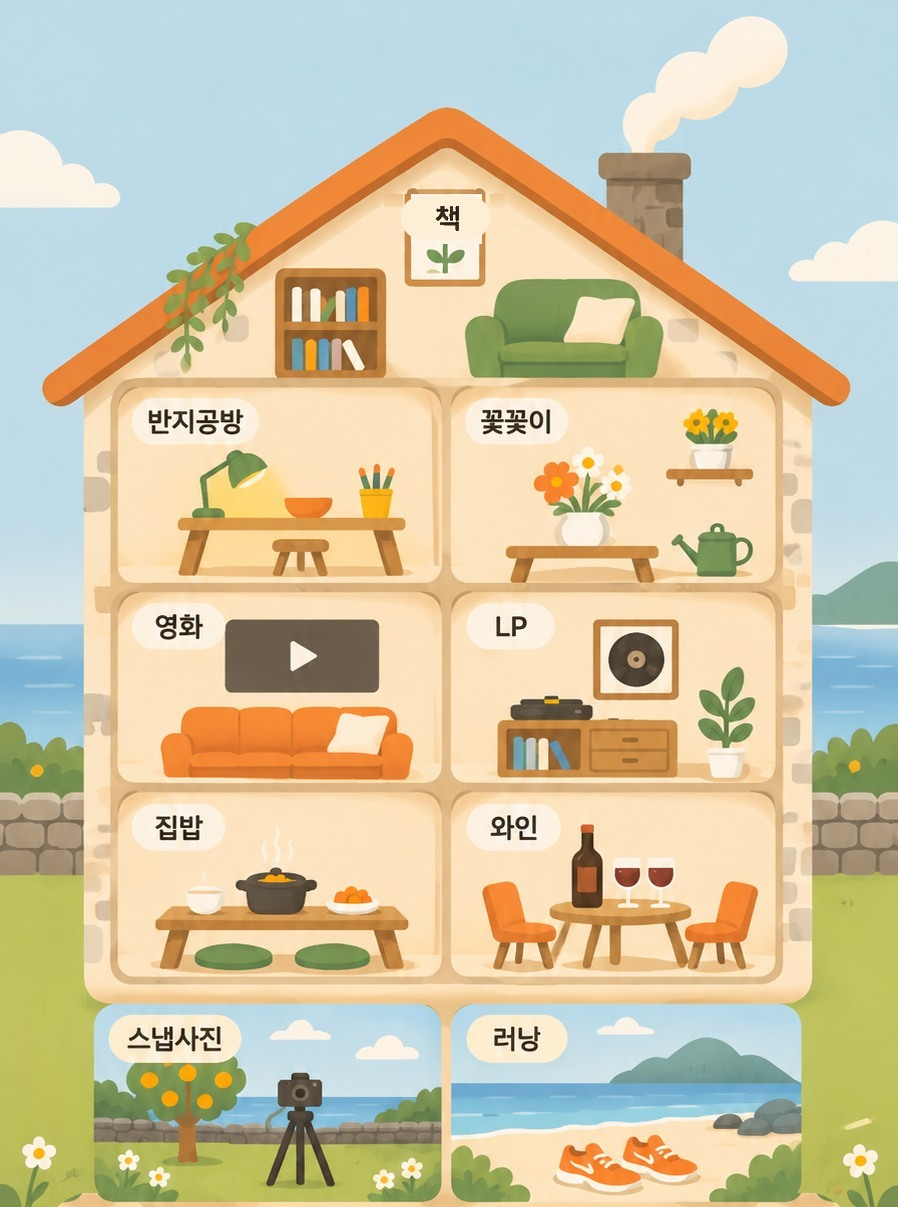
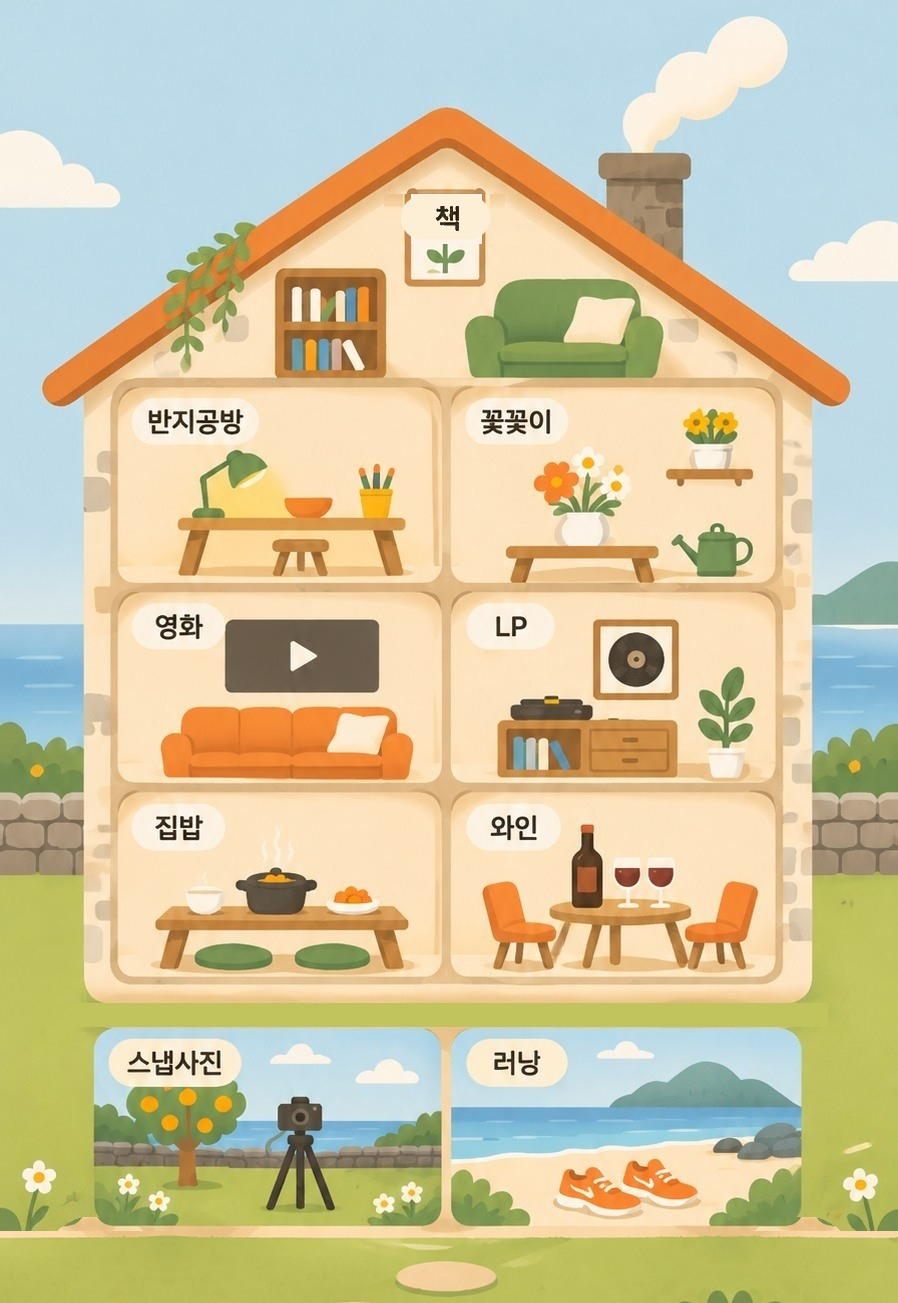
게하 탐색 — 이름표는 그림 속 크림색 이름표 그대로 두고 마우스를 올리면 주황으로 바뀌며 오른쪽으로 길어져 게스트하우스 이름 · →, 집과 마당 칸 사이 잔디로 띄우고 아래 잔디 · 디딤돌 여백 · 인트로 단어 조금만 내려도 다음 단어(단계 간격 0.6→0.3화면)

diff --git a/src/pages/HousePage.tsx b/src/pages/HousePage.tsx
@@ -26,12 +26,11 @@ const VIEW_KEY = 'jejulog:house-view';
  * 휴대폰(좁은 화면) — 세로 그림, 웹(넓은 화면) — 양옆 풍경까지 그려진 가로 그림을 화면 폭에 꽉 차게
  */
 /** pill — 그림 속 이름표 네모 [x1, y1, x2, y2] (이름이 그림 안에 있는 손그림 집 — 마우스를 올리면 그 자리에 주황 이름표) */
-type Spot = { id: ProgramId; room: [number, number, number, number]; tag: [number, number, number]; center?: boolean; pill?: [number, number, number, number]; fix?: boolean };
-/* fix — 그림 속 이름이 틀린 칸(러닝이 '러낭'으로 그려짐)은 그림 이름표 위에 같은 색 이름표를 늘 덮어 둠 */
+type Spot = { id: ProgramId; room: [number, number, number, number]; tag: [number, number, number]; center?: boolean; pill?: [number, number, number, number] };
 const HOUSES: Record<'narrow' | 'wide' | 'paper', { url: string; w: number; h: number; spots: Spot[]; labels?: boolean }> = {
-  // 지금 쓰는 그림 — 받은 집 그림(덩굴 · 돌벽 · 방 이름이 그림 안에, 마당 두 칸은 집 아래, 책 이름표는 둥근 알약으로 다듬음) 898 × 1207. 이름표는 그림에 있으니 덧씌우지 않고, 마우스를 올리면 그 자리에 주황 이름표(pill)
+  // 지금 쓰는 그림 — 받은 집 그림(덩굴 · 돌벽 · 방 이름이 그림 안에, 마당 두 칸은 집 아래, 책 이름표는 둥근 알약으로 다듬음, 집과 마당 사이 잔디로 띄움, 아래 잔디 · 디딤돌 여백) 898 × 1303. 이름표는 그림에 있으니 덧씌우지 않고, 마우스를 올리면 그 자리에 주황 이름표(pill)
   paper: {
-    url: housePaperUrl, w: 898, h: 1207, labels: false,
+    url: housePaperUrl, w: 898, h: 1303, labels: false,
     spots: [
       { id: 'book', room: [100, 150, 800, 382], tag: [450, 200, 66], center: true, pill: [400, 195, 490, 239] },
       { id: 'craft', room: [112, 385, 440, 582], tag: [0, 0, 0], pill: [132, 397, 265, 442] },
@@ -40,8 +39,8 @@ const HOUSES: Record<'narrow' | 'wide' | 'paper', { url: string; w: number; h: n
       { id: 'lp', room: [452, 590, 778, 782], tag: [0, 0, 0], pill: [465, 602, 554, 648] },
       { id: 'homemeal', room: [112, 790, 440, 980], tag: [0, 0, 0], pill: [132, 802, 225, 850] },
       { id: 'wine', room: [452, 790, 778, 980], tag: [0, 0, 0], pill: [465, 802, 561, 850] },
-      { id: 'camping', room: [95, 1005, 440, 1202], tag: [0, 0, 0], pill: [107, 1014, 239, 1062] },
-      { id: 'running', room: [455, 1005, 800, 1202], tag: [0, 0, 0], pill: [465, 1014, 567, 1062], fix: true },
+      { id: 'camping', room: [95, 1029, 440, 1226], tag: [0, 0, 0], pill: [107, 1038, 239, 1086] },
+      { id: 'running', room: [455, 1029, 800, 1226], tag: [0, 0, 0], pill: [465, 1038, 567, 1086] },
     ],
   },
   // 휴대폰 — 세로 그림 (1089 × 1445)
@@ -156,7 +155,7 @@ export function HousePage({ embedded = false }: { embedded?: boolean }) {
       >
         <div className="house3d__frame">
           <img className="house3d__img" src={house.url} width={IMG_W} height={IMG_H} alt={ui.house.houseAria} loading="lazy" decoding="async" />
-          {house.spots.map(({ id, room: [x1, y1, x2, y2], tag: [tx, ty, tw], center, pill, fix }) => {
+          {house.spots.map(({ id, room: [x1, y1, x2, y2], tag: [tx, ty, tw], center, pill }) => {
             const e = experienceById[id];
             const place = programById[id].report.place.name;
             return (
@@ -169,7 +168,7 @@ export function HousePage({ embedded = false }: { embedded?: boolean }) {
                   {...gaAttrs(id)}
                   style={{ left: pct(x1, IMG_W), top: pct(y1, IMG_H), width: pct(x2 - x1, IMG_W), height: pct(y2 - y1, IMG_H) }}
                 />
-                {/* 손그림 집 — 그림 속 이름표 자리에 주황 이름표, 방에 마우스를 올리거나 키보드로 고를 때만 보임 */}
+                {/* 그림 속 이름표 자리에 같은 크림색 이름표 — 방에 마우스를 올리면 주황으로 바뀌며 오른쪽으로 길어져 게스트하우스 이름 · → */}
                 {pill && (
                   <span
                     className="house3d__pill"
@@ -177,17 +176,10 @@ export function HousePage({ embedded = false }: { embedded?: boolean }) {
                     style={{ left: pct(pill[0], IMG_W), top: pct(pill[1], IMG_H), minWidth: pct(pill[2] - pill[0], IMG_W), height: pct(pill[3] - pill[1], IMG_H) }}
                   >
                     <span>{e.label}</span>
-                    <span className="house3d__pill-place">{place}</span>
-                    <span aria-hidden="true">→</span>
-                  </span>
-                )}
-                {pill && fix && (
-                  <span
-                    className="house3d__pill house3d__pill--fix"
-                    aria-hidden="true"
-                    style={{ left: pct(pill[0], IMG_W), top: pct(pill[1], IMG_H), width: pct(pill[2] - pill[0], IMG_W), height: pct(pill[3] - pill[1], IMG_H) }}
-                  >
-                    {e.label}
+                    <span className="house3d__pill-more">
+                      <span className="house3d__pill-place">{place}</span>
+                      <span aria-hidden="true">→</span>
+                    </span>
                   </span>
                 )}
                 {/* 이름표 — 그림 속 이름표 위에 같은 크기로 덮음 (언어 전환 · 호버 때 주황). 이름이 그림 안에 있는 손그림 집은 덮지 않음 */}

diff --git a/src/styles/house.css b/src/styles/house.css
@@ -200,14 +200,15 @@
 /* 손그림 집 이름표 — 방에 마우스를 올리면 그림 속 이름표 자리에 주황으로 */
 .house3d--paper .house3d__frame { container-type: inline-size; } /* 이름표 글씨를 그림 크기에 맞춤 (100cqw = 그림 폭) */
 .house3d__pill {
-  position: absolute; z-index: 2; display: flex; align-items: center; justify-content: center; gap: .45em; padding: 0 .7em; border-radius: 999px; white-space: nowrap; pointer-events: none;
-  background: #F0883A; color: #1F140C; font-family: var(--f-home); font-size: calc(100cqw * 25 / 898); font-weight: 800; letter-spacing: -0.02em;
-  opacity: 0; transition: opacity var(--t-hover) var(--ease);
+  position: absolute; z-index: 2; display: flex; align-items: center; justify-content: center; padding: 0 .7em; border-radius: 999px; white-space: nowrap; pointer-events: none;
+  background: #FEEFD6; color: #2A2520; font-family: var(--f-home); font-size: calc(100cqw * 25 / 898); font-weight: 800; letter-spacing: -0.02em;
+  transition: background var(--t-hover) var(--ease), color var(--t-hover) var(--ease);
 }
+/* 이름 뒤 게스트하우스 이름 · → — 평소엔 접혀 있다가 마우스를 올리면 펼쳐져 이름표가 오른쪽으로 길어짐 */
+.house3d__pill-more { display: inline-flex; align-items: center; gap: .4em; max-width: 0; margin-left: 0; overflow: hidden; opacity: 0; transition: max-width .3s var(--ease), margin-left .3s var(--ease), opacity .2s var(--ease); }
 .house3d__pill-place { font-size: .8em; font-weight: 600; color: rgba(31, 20, 12, .75); }
-.house3d__room:hover + .house3d__pill, .house3d__room:focus-visible + .house3d__pill { opacity: 1; }
-/* 그림 속 이름이 틀린 칸 — 그림 이름표와 같은 크림색으로 늘 덮음 (마우스를 올리면 위에 주황 이름표) */
-.house3d__pill--fix { z-index: 1; opacity: 1; padding: 0; background: #FDEFD6; color: #2A2520; }
+.house3d__room:hover + .house3d__pill, .house3d__room:focus-visible + .house3d__pill { background: #F0883A; color: #1F140C; }
+.house3d__room:hover + .house3d__pill .house3d__pill-more, .house3d__room:focus-visible + .house3d__pill .house3d__pill-more { max-width: 14em; margin-left: .45em; opacity: 1; }
 .house3d.house3d--paper .house3d__frame { margin: 0 auto; }
 .explore--home .explore__head:has(+ .house3d--paper) { margin-bottom: 0; }
 @media (max-width: 639px) { .house3d.house3d--paper { --w: 100%; } .house3d.house3d--paper .house3d__frame { margin: 0 auto; } }

diff --git a/src/pages/HomePage.tsx b/src/pages/HomePage.tsx
@@ -80,8 +80,8 @@ const REVEAL = SITE_KO.intro.words.length + 3;
 const STEPS = [0, ...SITE_KO.intro.words.map((_, i) => i + 1), REVEAL - 1, REVEAL - 1, REVEAL];
 /** 전환 문구 끝 줄이 나오는 단계 (STEPS 의 두 번째 REVEAL - 1) */
 const TURN_END = STEPS.length - 2;
-/** 단계 하나에 내리는 거리 — 화면 높이의 0.6배 (인트로 높이 = 한 화면 + 단계 수 × 0.6 화면, home.css) */
-const STEP_VH = 0.6;
+/** 단계 하나에 내리는 거리 — 화면 높이의 0.3배 (조금만 내려도 다음 단어, 인트로 높이 = 한 화면 + 단계 수 × 0.3 화면, home.css) */
+const STEP_VH = 0.3;
 function Intro() {
   const { site: SITE, ui } = useContent();
   const ref = useRef<HTMLElement>(null);

diff --git a/src/styles/home.css b/src/styles/home.css
@@ -10,8 +10,8 @@
   --cream: #F6F3ED;
   --mono: var(--f-sans);
   --p: 0;
-  /* 한 화면 + 단계 수(--steps, HomePage.tsx) × 0.6 화면 — 스크롤을 내릴 때마다 한 단계씩 */
-  position: relative; height: calc(100vh + var(--steps, 5) * 60vh);
+  /* 한 화면 + 단계 수(--steps, HomePage.tsx) × 0.3 화면 — 조금만 내려도 한 단계씩 */
+  position: relative; height: calc(100vh + var(--steps, 5) * 30vh);
   background: var(--night); color: var(--cream);
 }
 .intro__stage { position: sticky; top: 0; height: 100vh; height: 100svh; overflow: hidden; }
